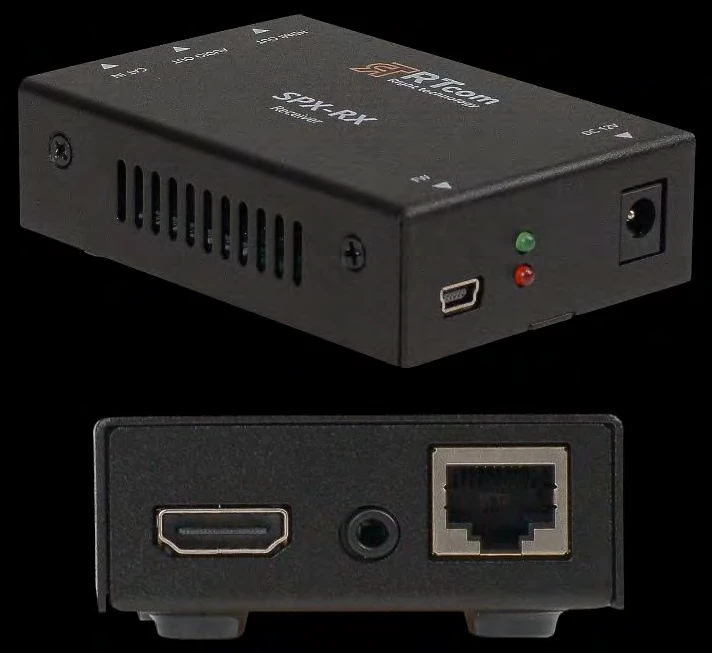
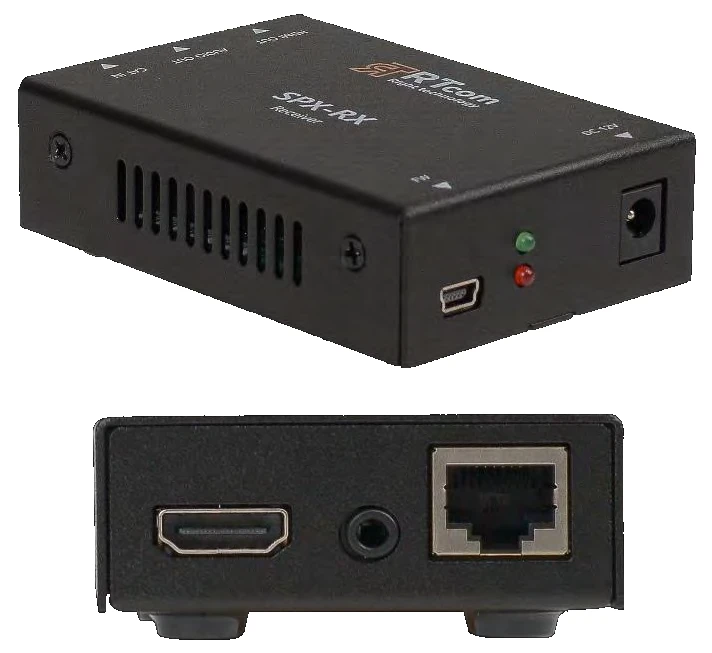
0.92.0: SPX 사진 검은 배경 제거, 전송기 ft 표기 일괄 삭제

diff --git a/index.html b/index.html
@@ -1,7 +1,7 @@
 <!doctype html>
 <html lang="ko"><head><meta charset="utf-8"><meta name="viewport" content="width=device-width,initial-scale=1"><title>RTCOM 매트릭스 구성기</title><meta name="description" content="RTCOM XDM, SPX, VDM 매트릭스 카드 슬롯 구성기와 알티컴 공개 제품정보"></head><body><div id="rtcom-design" aria-label="RTCOM 매트릭스 구성기">
   <link rel="stylesheet" href="src/styles.css">
-  <header class="rt-top"><a class="rt-brand-lockup" href="./"><span class="rt-brand-mark" aria-hidden="true">▦</span><span><span class="rt-brand">RT<span>COM</span> Matrix Configurator</span><span class="rt-brand-sub">XDM · SPX · VDM CARD SLOT DESIGN</span></span></a><nav class="rt-view-tabs" aria-label="화면 전환"><a data-view-tab="configurator" href="#matrix-configurator" aria-current="page">매트릭스 구성기</a><a data-view-tab="products" href="#products">알티컴 제품정보</a></nav><div class="rt-top-links"><a class="rt-portal-link" href="https://seoulav.github.io/AV-Portal/" target="_blank" rel="noopener">AV Portal에서 제품 찾기 <span aria-hidden="true">↗</span><span class="rt-visually-hidden">(새 창)</span></a><div class="rt-meta"><b>AV 시스템 설계 도구</b><br>CATALOG BASED · 0.91</div></div></header>
+  <header class="rt-top"><a class="rt-brand-lockup" href="./"><span class="rt-brand-mark" aria-hidden="true">▦</span><span><span class="rt-brand">RT<span>COM</span> Matrix Configurator</span><span class="rt-brand-sub">XDM · SPX · VDM CARD SLOT DESIGN</span></span></a><nav class="rt-view-tabs" aria-label="화면 전환"><a data-view-tab="configurator" href="#matrix-configurator" aria-current="page">매트릭스 구성기</a><a data-view-tab="products" href="#products">알티컴 제품정보</a></nav><div class="rt-top-links"><a class="rt-portal-link" href="https://seoulav.github.io/AV-Portal/" target="_blank" rel="noopener">AV Portal에서 제품 찾기 <span aria-hidden="true">↗</span><span class="rt-visually-hidden">(새 창)</span></a><div class="rt-meta"><b>AV 시스템 설계 도구</b><br>CATALOG BASED · 0.92</div></div></header>
   <section class="rt-configurator-view" aria-label="매트릭스 구성기">
     <div id="matrix-configurator" class="rt-configurator-anchor"><h1 class="rt-visually-hidden" tabindex="-1">매트릭스 구성기 — 프레임을 선택하고 실제 슬롯 위치에 입력·출력 카드를 장착해 구성합니다.</h1></div>
     <div class="rt-workspace"><div class="rt-tools"><button class="rt-button" data-tool="undo" disabled>↶ 실행 취소</button><button class="rt-button" data-tool="redo" disabled>↷ 다시 실행</button><button class="rt-button" data-tool="backup">JSON 백업</button><button class="rt-button" data-tool="import">불러오기</button><button class="rt-button" data-tool="reset">새 구성</button></div><p id="save-status" role="status" aria-live="polite">이 브라우저에 자동 저장됩니다.</p><input id="import-file" type="file" accept=".json,application/json" hidden></div><nav class="rt-nav" aria-label="구성 단계"></nav>

diff --git a/CLAUDE.md b/CLAUDE.md
@@ -50,7 +50,7 @@
 
 - 현재 화면 버전은 `index.html`의 우측 상단 표기와 `README.md`에 함께 기록합니다.
 - 원본 `main`에 기능 묶음을 병합할 때 마이너 버전을 올리고, 같은 커밋에서 `CHANGELOG.md`를 갱신합니다.
-- 구성기 단일 화면 전환은 `0.7.0`, Analog Way 방식 화면 개편은 `0.8.0`, 전송기 자동 연동은 `0.9.0`, HDMI 카드 PSE 쌍 연장은 `0.10.0`, SPX 매뉴얼 사진 슬롯은 `0.11.0`, VDM-256X 추가는 `0.12.0`, VDM 매뉴얼 후면 도면 슬롯은 `0.13.0`, 휴대폰 슬롯 겹침·뒤로가기 수정은 `0.14.0`, VDM 전면 도면은 `0.15.0`, 사진 슬롯 판넬 잘림 수정은 `0.16.0`, 장착 슬롯 번호표 숨김·구성 요약 카드 확대는 `0.17.0`, XDM 판넬 손나사 잘림 수정·VDM 전송기 연동·로고 홈 이동 확인은 `0.18.0`, 알티컴 공개 제품정보(29종) 재게시는 `0.19.0`, 제품정보 상세 표기를 에이앤미디어(antez.co.kr) 방식으로 정리한 것은 `0.20.0`, 데이터 기반 연결 다이어그램 추가는 `0.21.0`, 제품 사양 표를 구분·사양 2단으로 정리한 것은 `0.22.0`, 휴대폰 가로 스크롤(긴 출처 경로) 수정은 `0.23.0`, HD-14U·HD-18U 모델명 정정과 VDM CT102-U·FT102-U 계열 제외는 `0.24.0`, 제조사 카탈로그 원본 연결 다이어그램 적용은 `0.25.0`, 제품 사양 표 디자인(분류 색 점) 다듬기는 `0.26.0`, 새 카탈로그로 나머지 25종 재검증·XDM-CTR100 조합 다이어그램은 `0.27.0`, 연결 다이어그램 가로 스크롤 안내(그러데이션 표시)와 XDM-CTR100 케이블별 최대 전송거리(CI6522 80m) 추가는 `0.28.0`, VDM HOS4-U·HOS4S-UW 카드 설명을 스위칭 방식(일반·심리스)으로 정리하고 XDM-288을 구성기에서 삭제한 것은 `0.29.0`, XDM-CTR100 연결 다이어그램 조합 1을 매트릭스 카드 직결 배선으로 바로잡고 제조사 원본 다이어그램에 출처 캡션·표기 다름 경고를 추가하고 6개 제품과 SPX 다이어그램을 다시 잘라낸 것은 `0.30.0`, VDM 전송기 4종(CT101-U/CR101-U·CT103-U-H/CR103-U·FT101-U/FR101-U·FT103-U-H/FR103-U)에 RS-232 단자 행을 추가하고 이 4종과 CT104-U/CR104-U를 46쪽판과 재대조하고 27종 전체의 카탈로그 쪽 표기를 46쪽판 기준으로 통일한 것은 `0.31.0`, `docs/audit/PRODUCT_DIAGRAM_REVIEW_2026-09-27.md` §6 판단표대로 13개 제품의 검토 필요 항목을 정리해 REVIEW REQUIRED 배지를 없앤 것은 `0.32.0`, 제품정보 화면을 사용자 LED 구성기 계승 글래스 디자인으로 개편한 것(`docs/handoff/PRODUCT_GLASS_REDESIGN_SPEC.md` 6-A: 기반·HD-210U·XDM·VDM·SPX)은 `0.33.0`, 나머지 23종(분배기·일체형·전송기·케이블)에 lead·subtitle·portMap을 채우고 분배기·일체형 신호 흐름을 승인 시안 방식으로 바꾸고 QMS 화면 구성 모드(videoModes)를 추가한 것(6-B)은 `0.34.0`, HD-13U 상세에 전면 EDID 로터리 스위치 위치 표시와 EDID 코드표(edidSwitch, 사용자 제공 매뉴얼 근거)를 추가한 것은 `0.35.0`, HD-104U·HD-108U 모델명 표기를 0.24.0 정정 이전으로 되돌리고(사용자 확인 2026-09-27: 카탈로그 표기는 HD-104U·HD-108U이며 실크만 14U·18U로 변경 예정) HD-210U 전면 설정 스위치(딥 스위치·EDID 로터리) 추가와 신호 흐름 매트릭스 판정 복원을 함께 묶은 것은 `0.36.0`, 매트릭스 구성기 화면을 Analog Way 구조 + LED 글래스 스킨으로 개편하고 블랭크 커버(`placements`의 예약값 `"BLANK"`)로 슬롯 구성을 완성하는 기능을 추가한 것(`docs/handoff/CONFIGURATOR_AW_GLASS_SPEC.md`, 사용자 결정 2026-09-27)은 `0.37.0`, 0.37.0에서 시안과 다르게 남겨 둔 04 전송기 화면을 사용자 검토 후 좌우 분할 구조(01·02와 같은 틀)로 다시 지은 것(`docs/implementation/CONFIGURATOR_AW_GLASS.md` "04 전송기(편차 — 0.38.0에서 해소)")은 `0.38.0`, 제품 상세 "01 한눈에 보기" 위에 큰 사진 띠와 누르면 확대되는 돋보기(라이트박스)를 추가하고 화면에 보이는 제품 사양·주요 기능의 "up to" 표기를 "최대"로 통일하고 제품정보 "확인 사항" 118건을 2건으로 정리(HD-210U 크기 355mm 정정, `docs/audit/PRODUCT_ISSUES_ARCHIVE_2026-09-27.md`)한 것은 `0.39.0`, HD-13U "05 주요 기능"에 오디오 병합(믹스)·추출(디먹스) 동시 사용 안내(매뉴얼 7쪽 근거)를 추가한 것은 `0.40.0`, 분배기(HD-13U·HD-104U·HD-108U·HD-210U) EDID 로터리 코드표에서 자주 쓰는 1·7번을 강조하고 "02 신호 흐름"에 오디오 병합·추출(AUDIO OUT·"추출" 표시)을 추가한 것은 `0.41.0`, 사진 없이 입출력 표 카드로만 보이던 7종(HD-D102U·XDM-CTR100·전송기 5종)의 단자 지도를 HD-13U처럼 실제 제품 사진 기준으로 바꾸고 `portMap`이 송신기·수신기 사진 여러 장을 받게 한 것은 `0.42.0`, HDS-21U·HDS-42MU에 EDID 로터리(edidSwitch)를 추가하고 오디오 병합 설명을 "HDMI OUTPUT에 실리는 오디오" 기준으로 정정하고 분배기·선택기 필터를 HDMI 출력 개수 순으로 정렬하고 XDM-CTR100 "02 신호 흐름" 케이블 최대 전송거리 표기를 다이어그램 하단 한쪽으로 모은 것은 `0.43.0`, 분배기·선택기 필터 정렬을 분배기(Splitter)가 먼저 나오고 셀렉터(Switcher)가 나중에 나오도록(같은 종류 안에서는 HDMI 출력 개수 순) 바꾼 것은 `0.44.0`, 사용자 제공 매뉴얼 3권으로 벽부형 XDM-CT103·CT103-U-H/CR103-U·FT103-U-H/FR103-U의 단자 지도·사양·EDID 표를 보완하고 단자 지도에 세로 괄호·표시 폭·안내 줄을 추가한 것은 `0.45.0`, XDM-CTR100 PSE 제품 안내서와 XDM-CTR100 매뉴얼 Ver.1.4로 CTR100 단자 역할(HDMI IN·OUT, 5핀 오디오 출력, 상태 LED)·딥 스위치 설정·PSE 크기·전원을 보완한 것은 `0.46.0`, 옛 PR #22에만 있던 사용자 결정(XDM-CTR100과 XDM-CTR100 PSE를 별도 제품으로 분리해 28종, QMS-88UX 쿼드 뷰 출력 9·10번 사용법, 모델명 줄바꿈 방지)을 현재 main 기준으로 다시 옮기고 HD-13U 오디오 병합·추출을 선택 방식으로 정정해 07 오디오 설정 카드를 추가하고 모든 제품의 단자 지도 번호를 HDMI 입력 → 출력 → 오디오 → … → 전원(마지막) 순으로 통일한 것은 `0.47.0`, QMS-88UX 출력 9·10번 멀티뷰의 12가지 레이아웃·입력 그룹·출력 옵션을 사용자 제공 매뉴얼 20~23쪽 근거로 "주요 기능"에 적은 것은 `0.48.0`, HDS-21U·HDS-42MU 오디오 병합·추출을 딥 스위치 1번 선택 방식으로 정정하고 07 오디오 설정 카드를 추가하고 사용자 제공 매뉴얼 Ver.1.0으로 Priority·분배 기능 딥 스위치를 보완하고 제품 사진 팝업을 사용자 LED 계산기 "05 프로세서" 방식(사진 탭·원형 돋보기)으로 바꾼 것은 `0.49.0`, QMS-88UX "02 신호 흐름"에서 멀티뷰 출력 9·10번을 매트릭스 출력과 분리된 별도 갈래(패널·캡션)로 다시 그리고 "05 주요 기능" 멀티뷰 항목을 요약하고 오디오 출력 2개(QD1·QD2)가 선택 가능한 출력임을 반영한 것은 `0.50.0`, QMS-88UX "04 제품 사양"의 조건 칸(부설)을 모두 비우고 LAN(Telnet & Web Browser) 표기를 사양·기능·개요·단자 지도에서 모두 뺀 것은 `0.51.0`, HDS-42MU 크기를 사용자 결정에 따라 매뉴얼 값 232×65×30mm로 바꾸고 제품 상세의 "자료 출처·검토 기록"을 "제조사 자료"로 이름을 바꿔 화면의 출처 표시를 뺀 것은 `0.52.0`, QMS-88UX 오디오 QD1·QD2 설명 정리·"02 신호 흐름" 오디오 추출 점선과 멀티뷰 8입력분할 표현 정리·입출력 단자 표 정렬 통일(TX→구분 없음→RX, 영상→오디오→전송→제어, 입력→출력→양방향)·"제조사 자료"에서 표기 다름·참고 사항도 추가로 뺀 것과 조건 칸의 출처 문구를 지우고 "05 주요 기능"을 한 줄 요약으로 줄인 것(상세는 06·07 카드·사양·단자 지도로 이동)은 `0.53.0`, XDM-CTR100·CTR100 PSE "04 제품 사양"의 딥 스위치 행을 다시 삭제(딥 스위치는 05 주요 기능에서만 안내)하고 전 제품 "05 주요 기능"을 추가로 압축하고 매트릭스 COS/CIS/FIS/FOS 카드와 짝인 전송기 3종(XDM-CTR100·CTR100 PSE·FT101/FR101)에 RS-232+ 패스스루(AMX 등 통합 제어 신호를 매트릭스·전송기 너머로 전달) 안내를 추가하고 "02 신호 흐름"의 케이블 최대 전송거리 표기를 범례 "출력" 항목 오른쪽으로 옮긴 것은 `0.54.0`, 구성기 확인 창을 사이트 글래스 스타일 대화상자로 바꾸고 카드 팝업에 수량 채우기와 같은 방향 슬롯 이동(끌어 옮기기·팝업 이동)을 추가하고 XDM 세로 슬롯 카드를 180도 돌리고 2U 이상만 정면·후면 버튼(그보다 작으면 정면 사진과 포트 연결면을 함께 표시)으로 하고 구성기 작업 단계 표기를 한글로 바꾸고 Delete 키 카드 빼기와 XDM RS-232+(CIS·COS·FIS·FOS 카드와 짝 전송기) 표기를 더한 것은 `0.55.0`, 전 제품 "05 주요 기능" 카탈로그 어투 통일("~ 지원")·"01 한눈에 보기" 위 사진 띠 삭제·"02 신호 흐름"과 "03 단자 지도" 순서 교체 및 영문 표기(Signal Flow·Port Map)·화면 구성 모드 등 06 카드를 05 옆으로 배치·QMS-88UX 06 화면 구성 모드 레이아웃 12종 클릭 미리보기 추가·HDS-21U·HDS-42MU 단자 지도를 정면·후면 선택 버튼 없이 위아래 합성 사진 한 장(번호 1~7, EDID 로터리 6번·전원 7번)으로 바꾼 것은 `0.56.0`, 05 옆으로 옮긴 06 카드가 휴대폰에서 01보다 먼저 뜨던 순서 버그를 고치고(rt-pg-col-mobile-6 클래스 추가) 15개 제품 "05 주요 기능"의 "~할 수 있다." 표현 24곳을 명사형으로 정리한 것은 `0.57.0`, HDS-21U·HDS-42MU 단자 지도에 MODE 딥 스위치 번호(7번)를 추가하고 07 오디오 설정 카드를 딥 스위치 그림(번호별 OFF·ON) 카드인 07 딥 스위치 설정으로 바꾸고(1번 오디오 병합·추출, 2번 Priority, 42MU만 3번 분배) 04 제품 사양의 딥 스위치 행과 05 주요 기능의 긴 설명을 이 카드로 옮기고 매트릭스 제품(QMS-44UX·QMS-88UX·HDS-42MU) "03 Signal Flow"를 입력이 한 점으로 모이는 모양 대신 크로스포인트(출력마다 입력 선택 예시)로 다시 그리고 HDS-42MU 정면 사진의 잘못 인쇄된 실크(MODE·EDID)를 사진 안에서 서로 바꾼 것은 `0.58.0`, EDID 로터리 태그 잘림·06 EDID 카드 배치·긴 코드표 좌우 분할을 고치고 EDID 설정 카드에 기본값·자주 쓰는 코드를 파란 16단 로터리 그림(화살표가 코드를 가리킴)으로 보여주고 HDS-21U·HDS-42MU(3·9번)·FT103-U-H/FR103-U(3·6번)에 자주 쓰는 코드 강조를 더하고 EDID 코드표 세로 크기를 줄인 것은 `0.59.0`, 04 제품 사양 표 줄 간격을 약 15% 줄이고 03 Signal Flow에서 AUDIO OUT "추출" 표시가 잘리던 그림 너비 계산을 고친 것은 `0.60.0`, HD-13U 07 오디오 설정을 06 EDID 다음 전체 폭으로 옮겨 잘림·번호 뒤집힘을 고치고 EDID 대표 설정과 같은 칸 4개(MODE 로터리 0번 → SET 누름 → OUT 1 LED 깜빡임·깜빡이지 않음)를 넣고 HD-210U에 매뉴얼 Ver.1.2 근거 07 딥 스위치 설정 카드(1번 오디오 병합, 2번 DDC)를 추가한 것은 `0.61.0`, 딥 스위치 카드가 있는 HD-210U·HDS-21U·HDS-42MU의 05 주요 기능에서 스위치 번호 참조를 지우고 HD-210U(5줄)·HD-13U(3줄) 05 주요 기능을 기능 이름만 남겨 정리하고 HDS-21U·HDS-42MU 딥 스위치 칸을 ON → OFF 순서로 바꾼 것은 `0.62.0`, QMS-44UX·QMS-88UX "06 화면 구성 모드" 카드가 05 옆 좁은 칸에 들어가면서 모드 카드 설명·레이아웃 칩이 카드 밖으로 넘치던 문제를 edidSwitch와 같은 기준(항상 전체 폭 아래)으로 고친 것은 `0.63.0`, SPX-TX/RX 전송기를 29번째 제품으로 추가(매뉴얼 Ver.2.0: 사양·단자 지도·딥 스위치 조합)하고 XDM-FT101/FR101에 매뉴얼 Ver.1.3 근거 EDID·오디오 로터리 카드(전체 8칸 그림)를 넣고 SPX 안내·범례의 HDBaseT 표기를 CATx로 바로잡고 OBUX-1C에 매뉴얼 Ver.2.2 근거 Tx Mode 딥 스위치 카드(1번 오디오, 2·3·4번 EDID 조합)를 넣고 전 제품 05 주요 기능의 "~한다/~다." 문장을 "~ 지원"·명사형으로 통일한 것은 `0.64.0`, OBHD-2C에 매뉴얼 KV01 근거 06 EDID 설정(MODE 로터리 0~D 전체 14칸 그림·코드표)을 추가하고 XDM-CT103/CR103 04 제품 사양의 전원(어댑터) 중복 행(CT103·CR103 각각 있던 동일 값)을 공통 행 하나로 합친 것은 `0.65.0`, XDM-CTR100·XDM-CTR100 PSE에 매뉴얼 Ver.1.4 근거 06 딥 스위치 설정(1·2번 TX/RX 모드 조합, 3번 전송 거리)을 추가하고 두 제품이 별도 페이지로 나뉜 뒤에도 남아 있던 04 제품 사양의 "공통"·자기 모델명 반복 표기를 정리하고 04 사양 "지원 케이블"을 "권장 케이블"로 바꾸고 분배기 4종(HD-13U·HD-104U·HD-108U·HD-210U) 단자 지도를 앞면·뒷면 합성 사진 한 장으로 바꿔 정면 로터리(·SET·MODE)에도 번호를 붙인 것은 `0.66.0`, QMS-88UX 06 화면 구성 모드 QUAD 레이아웃 목록에 매뉴얼 22~23쪽 Output Option 2·3 근거로 "8분할(비율무시)"을 13번째 항목으로 추가하고 분배기 4종(HD-13U·HD-104U·HD-108U·HD-210U) 05 주요 기능에 다단 증폭(캐스케이드 연결) 최대 3단 지원을 추가한 것은 `0.67.0`, XDM-FT101/FR101 단자 지도에 정면 MODE 로터리·S/P 번호를 추가하고 HD-D102U 05 주요 기능을 명사형으로 전면 재작성하고 HDS-21U·HDS-42MU "Audio Extraction"과 HD-210U EDID "Nothing" 표기를 통일하고 HDS-21U 딥 스위치 3번(분배)이 매뉴얼에 없는 기능이었음을 사용자 제공 매뉴얼로 확인해 삭제한 것은 `0.68.0`, HDS-21U·HDS-42MU 06 EDID 설정 안내 문장에서 "10번=A, 11번=B"처럼 10진수를 다시 설명하던 괄호를 완전히 지운 것은 `0.69.0`, 구성기 "섀시"를 "프레임"으로 통일하고 카드 팝업에 수량·순서대로 장착 버튼을 넣고 02 프레임 선택에 "함께 보면 좋은 제품"을 추가하고 빈 슬롯 공패널색을 통일하고 OBHD-2C EDID 로터리 번호를 매뉴얼 Ver.2.1 기준으로 정정하고 HD-D102U "스마트 EDID" 문구를 알기 쉽게 풀어 쓰고 HD-13U·XDM-CTR100 PSE "인증: KC 인증" 행을 삭제하고 HD-D102U 04 사양표를 HD-13U와 같은 구성으로 정리한 것은 `0.70.0`, OBHD-2C 04 제품 사양의 크기·무게·HDMI 규격을 사용자 결정에 따라 매뉴얼 Ver.2.1 값(128×89×25mm·0.36kg·HDMI 1.3)으로 바꾼 것은 `0.71.0`, OBHD-2C·OBUX-1C 04 제품 사양의 입력단자·출력단자(HDMI(female) 등 표기) 행을 삭제하고 전 제품(16종)의 mm/kg 옆 인치·lbs 병기를 지운 것은 `0.72.0`, XDM-PSU 전원 장치를 반영해 BOM의 임시 "전원 공급 장비"를 XDM-PSU(16칸당 1대)·XDM-POH(CTR100 Tx 1대당 1개)·XDM-PHX(COS100 1장당 1개)로 나누고 XDM-PSU를 30번째 제품으로 추가하고, HDS-21U·OBUX-1C 송신기·수신기 고해상도 실물 사진을 반영하고, CT103-U-H/CR103-U 04 제품 사양을 요약 형태로 정리한 것은 `0.73.0`, QMS-44UX 전면·후면 사진을 사용자가 직접 촬영한 고화질 사진으로 바꾸고 03 단자 지도 좌표를 재보정하고 새 사진에서 확인된 DOWNLOAD(Mini-USB) 포트를 추가한 것은 `0.74.0`, HD-108U 전면·후면 사진을 제조사에서 입수한 고화질 사진으로 바꾸고 03 단자 지도와 06 EDID 설정 로터리 스위치 좌표를 재보정한 것은 `0.75.0`, HDS-42MU 전면·후면 사진을 고화질로 바꾸고 단자 지도·EDID 좌표를 재보정한 것은 `0.76.0`, HD-13U·SPX-M810 전면·후면 사진을 고해상도로 바꾸고 HD-13U 단자 지도·EDID 좌표와 SPX-M810 구성기 카드 슬롯 좌표를 재측정한 것은 `0.77.0`, 사용자가 제공한 HD-104U 고해상도 전면·후면 사진(긴 변 약 2000px)으로 기존 저해상도 이미지를 교체하고 단자 지도·EDID 로터리 스위치 좌표를 새 사진 기준으로 다시 측정한 것은 `0.78.0`, 제품 상세에 등록된 제조사 카탈로그·매뉴얼 PDF만 "제품 목록" 옆 버튼(새 탭 보기·내려받기)으로 보여 주는 구조를 추가한 것은 `0.79.0`, 매트릭스 카드 상세 정보 버튼과 XDM·SPX·VDM 카드 26종 사양을 등록한 것은 `0.80.0`, 로컬 작업 환경(`DEVICE_WORKFLOW.md`, `.gitattributes`, `.claude/settings.json`)과 `input_doc` 자료 자동 분류(`.claude/skills/input-doc`, `scripts/input_doc.py`)를 추가한 것은 `0.81.0`, 제조사 자료 입출력 단자 표에서 방향("입력"·"출력"·"입출력")·수량(숫자) 칸이 좁은 화면에서 줄바꿈되던 문제를 30개 제품 전수 조사로 찾아 고친 것은 `0.82.0`, 제목에 송신기·수신기가 들어간 제품 10종의 라벨을 색으로 구분한 것은 `0.83.0`, input_doc 첫 정리(매뉴얼 20권·사양서 1장)로 VDM HOS4-U 카드 사양을 등록하고 CIS4-U·COS4-U·QOS4S-U를 매뉴얼 KV07 값으로 보완하고 input_doc 반영 장부(`docs/evidence/input-doc-ledger.json`)와 파일별 반영 표시(`input_doc/STATUS.md`)를 추가하고 검증된 PR의 병합·배포를 Claude가 이어서 하도록 규칙을 바꾼 것은 `0.84.0`, 카탈로그·매뉴얼 충돌 정리(`docs/audit/CATALOG_MANUAL_CONFLICTS_2026-09-28.md`) 결정대로 VDM -U 카드에 매뉴얼 해상도 행·SOS4 오디오 포트를 더하고 QMS-88UX 멀티뷰에 8분할(16:9 비율)을 추가한 것은 `0.85.0`, 카탈로그·매뉴얼 충돌 항목을 사용자 결정("새로준 자료 기준으로")에 따라 매뉴얼 값으로 통일한 것(HD-104U 전원 1A, XDM 전송기 3840x2160, VDM 광 카드 10km·-U 카드 4096×2160·HOS4S-UW 1920×1080)은 `0.86.0`, RT컴 제공 고해상도 실물 사진으로 XDM-CTR100·XDM-FT101·XDM-FR101·XDM-CT103 제품 사진·목록 카드·구성기 04 전송기 썸네일을 교체하고 CTR100·FT101·CT103 단자 지도를 새 사진으로 다시 합성하고 XDM-FR101 수신기 뒷면 단자 지도를 추가한 것은 `0.87.0`, 사용자 결정("1번")으로 input_doc 매뉴얼 17개를 공개 폴더에 올려 16개 제품 상세에 매뉴얼 PDF 버튼을 켠 것은 `0.88.0`, 사용자 확인("ctr100과 pse는 단자는 동일해")에 따라 XDM-CTR100·XDM-CTR100 PSE 단자 지도를 같은 합성 사진(앞면 PSE 제품 안내서 사진 + 뒷면 RT컴 CTR100 사진)으로 바꾼 것은 `0.89.0`, QMS-88UX 06 화면 구성 모드의 DUAL 카드("듀얼 모드" 한 마디뿐)를 매뉴얼 KV.04 20~21쪽 근거로 출력 9·10번 멀티뷰 설정의 2분할(PBP)·PIP 레이아웃 3종으로 채운 것은 `0.90.0`, XDM-CTR100 PSE 정면 사진을 사용자가 재확인("1번 맞아"·"적용시켜줘")한 원본 PNG에서 정확한 픽셀 경계로 다시 잘라 646×396으로 다시 저장한 것은 `0.91.0`으로 기록했습니다. 다음 기능 묶음은 `0.92.0`을 목표로 하며, 실제 병합 전에는 검증된 canonical main commit을 확인합니다.
+- 구성기 단일 화면 전환은 `0.7.0`, Analog Way 방식 화면 개편은 `0.8.0`, 전송기 자동 연동은 `0.9.0`, HDMI 카드 PSE 쌍 연장은 `0.10.0`, SPX 매뉴얼 사진 슬롯은 `0.11.0`, VDM-256X 추가는 `0.12.0`, VDM 매뉴얼 후면 도면 슬롯은 `0.13.0`, 휴대폰 슬롯 겹침·뒤로가기 수정은 `0.14.0`, VDM 전면 도면은 `0.15.0`, 사진 슬롯 판넬 잘림 수정은 `0.16.0`, 장착 슬롯 번호표 숨김·구성 요약 카드 확대는 `0.17.0`, XDM 판넬 손나사 잘림 수정·VDM 전송기 연동·로고 홈 이동 확인은 `0.18.0`, 알티컴 공개 제품정보(29종) 재게시는 `0.19.0`, 제품정보 상세 표기를 에이앤미디어(antez.co.kr) 방식으로 정리한 것은 `0.20.0`, 데이터 기반 연결 다이어그램 추가는 `0.21.0`, 제품 사양 표를 구분·사양 2단으로 정리한 것은 `0.22.0`, 휴대폰 가로 스크롤(긴 출처 경로) 수정은 `0.23.0`, HD-14U·HD-18U 모델명 정정과 VDM CT102-U·FT102-U 계열 제외는 `0.24.0`, 제조사 카탈로그 원본 연결 다이어그램 적용은 `0.25.0`, 제품 사양 표 디자인(분류 색 점) 다듬기는 `0.26.0`, 새 카탈로그로 나머지 25종 재검증·XDM-CTR100 조합 다이어그램은 `0.27.0`, 연결 다이어그램 가로 스크롤 안내(그러데이션 표시)와 XDM-CTR100 케이블별 최대 전송거리(CI6522 80m) 추가는 `0.28.0`, VDM HOS4-U·HOS4S-UW 카드 설명을 스위칭 방식(일반·심리스)으로 정리하고 XDM-288을 구성기에서 삭제한 것은 `0.29.0`, XDM-CTR100 연결 다이어그램 조합 1을 매트릭스 카드 직결 배선으로 바로잡고 제조사 원본 다이어그램에 출처 캡션·표기 다름 경고를 추가하고 6개 제품과 SPX 다이어그램을 다시 잘라낸 것은 `0.30.0`, VDM 전송기 4종(CT101-U/CR101-U·CT103-U-H/CR103-U·FT101-U/FR101-U·FT103-U-H/FR103-U)에 RS-232 단자 행을 추가하고 이 4종과 CT104-U/CR104-U를 46쪽판과 재대조하고 27종 전체의 카탈로그 쪽 표기를 46쪽판 기준으로 통일한 것은 `0.31.0`, `docs/audit/PRODUCT_DIAGRAM_REVIEW_2026-09-27.md` §6 판단표대로 13개 제품의 검토 필요 항목을 정리해 REVIEW REQUIRED 배지를 없앤 것은 `0.32.0`, 제품정보 화면을 사용자 LED 구성기 계승 글래스 디자인으로 개편한 것(`docs/handoff/PRODUCT_GLASS_REDESIGN_SPEC.md` 6-A: 기반·HD-210U·XDM·VDM·SPX)은 `0.33.0`, 나머지 23종(분배기·일체형·전송기·케이블)에 lead·subtitle·portMap을 채우고 분배기·일체형 신호 흐름을 승인 시안 방식으로 바꾸고 QMS 화면 구성 모드(videoModes)를 추가한 것(6-B)은 `0.34.0`, HD-13U 상세에 전면 EDID 로터리 스위치 위치 표시와 EDID 코드표(edidSwitch, 사용자 제공 매뉴얼 근거)를 추가한 것은 `0.35.0`, HD-104U·HD-108U 모델명 표기를 0.24.0 정정 이전으로 되돌리고(사용자 확인 2026-09-27: 카탈로그 표기는 HD-104U·HD-108U이며 실크만 14U·18U로 변경 예정) HD-210U 전면 설정 스위치(딥 스위치·EDID 로터리) 추가와 신호 흐름 매트릭스 판정 복원을 함께 묶은 것은 `0.36.0`, 매트릭스 구성기 화면을 Analog Way 구조 + LED 글래스 스킨으로 개편하고 블랭크 커버(`placements`의 예약값 `"BLANK"`)로 슬롯 구성을 완성하는 기능을 추가한 것(`docs/handoff/CONFIGURATOR_AW_GLASS_SPEC.md`, 사용자 결정 2026-09-27)은 `0.37.0`, 0.37.0에서 시안과 다르게 남겨 둔 04 전송기 화면을 사용자 검토 후 좌우 분할 구조(01·02와 같은 틀)로 다시 지은 것(`docs/implementation/CONFIGURATOR_AW_GLASS.md` "04 전송기(편차 — 0.38.0에서 해소)")은 `0.38.0`, 제품 상세 "01 한눈에 보기" 위에 큰 사진 띠와 누르면 확대되는 돋보기(라이트박스)를 추가하고 화면에 보이는 제품 사양·주요 기능의 "up to" 표기를 "최대"로 통일하고 제품정보 "확인 사항" 118건을 2건으로 정리(HD-210U 크기 355mm 정정, `docs/audit/PRODUCT_ISSUES_ARCHIVE_2026-09-27.md`)한 것은 `0.39.0`, HD-13U "05 주요 기능"에 오디오 병합(믹스)·추출(디먹스) 동시 사용 안내(매뉴얼 7쪽 근거)를 추가한 것은 `0.40.0`, 분배기(HD-13U·HD-104U·HD-108U·HD-210U) EDID 로터리 코드표에서 자주 쓰는 1·7번을 강조하고 "02 신호 흐름"에 오디오 병합·추출(AUDIO OUT·"추출" 표시)을 추가한 것은 `0.41.0`, 사진 없이 입출력 표 카드로만 보이던 7종(HD-D102U·XDM-CTR100·전송기 5종)의 단자 지도를 HD-13U처럼 실제 제품 사진 기준으로 바꾸고 `portMap`이 송신기·수신기 사진 여러 장을 받게 한 것은 `0.42.0`, HDS-21U·HDS-42MU에 EDID 로터리(edidSwitch)를 추가하고 오디오 병합 설명을 "HDMI OUTPUT에 실리는 오디오" 기준으로 정정하고 분배기·선택기 필터를 HDMI 출력 개수 순으로 정렬하고 XDM-CTR100 "02 신호 흐름" 케이블 최대 전송거리 표기를 다이어그램 하단 한쪽으로 모은 것은 `0.43.0`, 분배기·선택기 필터 정렬을 분배기(Splitter)가 먼저 나오고 셀렉터(Switcher)가 나중에 나오도록(같은 종류 안에서는 HDMI 출력 개수 순) 바꾼 것은 `0.44.0`, 사용자 제공 매뉴얼 3권으로 벽부형 XDM-CT103·CT103-U-H/CR103-U·FT103-U-H/FR103-U의 단자 지도·사양·EDID 표를 보완하고 단자 지도에 세로 괄호·표시 폭·안내 줄을 추가한 것은 `0.45.0`, XDM-CTR100 PSE 제품 안내서와 XDM-CTR100 매뉴얼 Ver.1.4로 CTR100 단자 역할(HDMI IN·OUT, 5핀 오디오 출력, 상태 LED)·딥 스위치 설정·PSE 크기·전원을 보완한 것은 `0.46.0`, 옛 PR #22에만 있던 사용자 결정(XDM-CTR100과 XDM-CTR100 PSE를 별도 제품으로 분리해 28종, QMS-88UX 쿼드 뷰 출력 9·10번 사용법, 모델명 줄바꿈 방지)을 현재 main 기준으로 다시 옮기고 HD-13U 오디오 병합·추출을 선택 방식으로 정정해 07 오디오 설정 카드를 추가하고 모든 제품의 단자 지도 번호를 HDMI 입력 → 출력 → 오디오 → … → 전원(마지막) 순으로 통일한 것은 `0.47.0`, QMS-88UX 출력 9·10번 멀티뷰의 12가지 레이아웃·입력 그룹·출력 옵션을 사용자 제공 매뉴얼 20~23쪽 근거로 "주요 기능"에 적은 것은 `0.48.0`, HDS-21U·HDS-42MU 오디오 병합·추출을 딥 스위치 1번 선택 방식으로 정정하고 07 오디오 설정 카드를 추가하고 사용자 제공 매뉴얼 Ver.1.0으로 Priority·분배 기능 딥 스위치를 보완하고 제품 사진 팝업을 사용자 LED 계산기 "05 프로세서" 방식(사진 탭·원형 돋보기)으로 바꾼 것은 `0.49.0`, QMS-88UX "02 신호 흐름"에서 멀티뷰 출력 9·10번을 매트릭스 출력과 분리된 별도 갈래(패널·캡션)로 다시 그리고 "05 주요 기능" 멀티뷰 항목을 요약하고 오디오 출력 2개(QD1·QD2)가 선택 가능한 출력임을 반영한 것은 `0.50.0`, QMS-88UX "04 제품 사양"의 조건 칸(부설)을 모두 비우고 LAN(Telnet & Web Browser) 표기를 사양·기능·개요·단자 지도에서 모두 뺀 것은 `0.51.0`, HDS-42MU 크기를 사용자 결정에 따라 매뉴얼 값 232×65×30mm로 바꾸고 제품 상세의 "자료 출처·검토 기록"을 "제조사 자료"로 이름을 바꿔 화면의 출처 표시를 뺀 것은 `0.52.0`, QMS-88UX 오디오 QD1·QD2 설명 정리·"02 신호 흐름" 오디오 추출 점선과 멀티뷰 8입력분할 표현 정리·입출력 단자 표 정렬 통일(TX→구분 없음→RX, 영상→오디오→전송→제어, 입력→출력→양방향)·"제조사 자료"에서 표기 다름·참고 사항도 추가로 뺀 것과 조건 칸의 출처 문구를 지우고 "05 주요 기능"을 한 줄 요약으로 줄인 것(상세는 06·07 카드·사양·단자 지도로 이동)은 `0.53.0`, XDM-CTR100·CTR100 PSE "04 제품 사양"의 딥 스위치 행을 다시 삭제(딥 스위치는 05 주요 기능에서만 안내)하고 전 제품 "05 주요 기능"을 추가로 압축하고 매트릭스 COS/CIS/FIS/FOS 카드와 짝인 전송기 3종(XDM-CTR100·CTR100 PSE·FT101/FR101)에 RS-232+ 패스스루(AMX 등 통합 제어 신호를 매트릭스·전송기 너머로 전달) 안내를 추가하고 "02 신호 흐름"의 케이블 최대 전송거리 표기를 범례 "출력" 항목 오른쪽으로 옮긴 것은 `0.54.0`, 구성기 확인 창을 사이트 글래스 스타일 대화상자로 바꾸고 카드 팝업에 수량 채우기와 같은 방향 슬롯 이동(끌어 옮기기·팝업 이동)을 추가하고 XDM 세로 슬롯 카드를 180도 돌리고 2U 이상만 정면·후면 버튼(그보다 작으면 정면 사진과 포트 연결면을 함께 표시)으로 하고 구성기 작업 단계 표기를 한글로 바꾸고 Delete 키 카드 빼기와 XDM RS-232+(CIS·COS·FIS·FOS 카드와 짝 전송기) 표기를 더한 것은 `0.55.0`, 전 제품 "05 주요 기능" 카탈로그 어투 통일("~ 지원")·"01 한눈에 보기" 위 사진 띠 삭제·"02 신호 흐름"과 "03 단자 지도" 순서 교체 및 영문 표기(Signal Flow·Port Map)·화면 구성 모드 등 06 카드를 05 옆으로 배치·QMS-88UX 06 화면 구성 모드 레이아웃 12종 클릭 미리보기 추가·HDS-21U·HDS-42MU 단자 지도를 정면·후면 선택 버튼 없이 위아래 합성 사진 한 장(번호 1~7, EDID 로터리 6번·전원 7번)으로 바꾼 것은 `0.56.0`, 05 옆으로 옮긴 06 카드가 휴대폰에서 01보다 먼저 뜨던 순서 버그를 고치고(rt-pg-col-mobile-6 클래스 추가) 15개 제품 "05 주요 기능"의 "~할 수 있다." 표현 24곳을 명사형으로 정리한 것은 `0.57.0`, HDS-21U·HDS-42MU 단자 지도에 MODE 딥 스위치 번호(7번)를 추가하고 07 오디오 설정 카드를 딥 스위치 그림(번호별 OFF·ON) 카드인 07 딥 스위치 설정으로 바꾸고(1번 오디오 병합·추출, 2번 Priority, 42MU만 3번 분배) 04 제품 사양의 딥 스위치 행과 05 주요 기능의 긴 설명을 이 카드로 옮기고 매트릭스 제품(QMS-44UX·QMS-88UX·HDS-42MU) "03 Signal Flow"를 입력이 한 점으로 모이는 모양 대신 크로스포인트(출력마다 입력 선택 예시)로 다시 그리고 HDS-42MU 정면 사진의 잘못 인쇄된 실크(MODE·EDID)를 사진 안에서 서로 바꾼 것은 `0.58.0`, EDID 로터리 태그 잘림·06 EDID 카드 배치·긴 코드표 좌우 분할을 고치고 EDID 설정 카드에 기본값·자주 쓰는 코드를 파란 16단 로터리 그림(화살표가 코드를 가리킴)으로 보여주고 HDS-21U·HDS-42MU(3·9번)·FT103-U-H/FR103-U(3·6번)에 자주 쓰는 코드 강조를 더하고 EDID 코드표 세로 크기를 줄인 것은 `0.59.0`, 04 제품 사양 표 줄 간격을 약 15% 줄이고 03 Signal Flow에서 AUDIO OUT "추출" 표시가 잘리던 그림 너비 계산을 고친 것은 `0.60.0`, HD-13U 07 오디오 설정을 06 EDID 다음 전체 폭으로 옮겨 잘림·번호 뒤집힘을 고치고 EDID 대표 설정과 같은 칸 4개(MODE 로터리 0번 → SET 누름 → OUT 1 LED 깜빡임·깜빡이지 않음)를 넣고 HD-210U에 매뉴얼 Ver.1.2 근거 07 딥 스위치 설정 카드(1번 오디오 병합, 2번 DDC)를 추가한 것은 `0.61.0`, 딥 스위치 카드가 있는 HD-210U·HDS-21U·HDS-42MU의 05 주요 기능에서 스위치 번호 참조를 지우고 HD-210U(5줄)·HD-13U(3줄) 05 주요 기능을 기능 이름만 남겨 정리하고 HDS-21U·HDS-42MU 딥 스위치 칸을 ON → OFF 순서로 바꾼 것은 `0.62.0`, QMS-44UX·QMS-88UX "06 화면 구성 모드" 카드가 05 옆 좁은 칸에 들어가면서 모드 카드 설명·레이아웃 칩이 카드 밖으로 넘치던 문제를 edidSwitch와 같은 기준(항상 전체 폭 아래)으로 고친 것은 `0.63.0`, SPX-TX/RX 전송기를 29번째 제품으로 추가(매뉴얼 Ver.2.0: 사양·단자 지도·딥 스위치 조합)하고 XDM-FT101/FR101에 매뉴얼 Ver.1.3 근거 EDID·오디오 로터리 카드(전체 8칸 그림)를 넣고 SPX 안내·범례의 HDBaseT 표기를 CATx로 바로잡고 OBUX-1C에 매뉴얼 Ver.2.2 근거 Tx Mode 딥 스위치 카드(1번 오디오, 2·3·4번 EDID 조합)를 넣고 전 제품 05 주요 기능의 "~한다/~다." 문장을 "~ 지원"·명사형으로 통일한 것은 `0.64.0`, OBHD-2C에 매뉴얼 KV01 근거 06 EDID 설정(MODE 로터리 0~D 전체 14칸 그림·코드표)을 추가하고 XDM-CT103/CR103 04 제품 사양의 전원(어댑터) 중복 행(CT103·CR103 각각 있던 동일 값)을 공통 행 하나로 합친 것은 `0.65.0`, XDM-CTR100·XDM-CTR100 PSE에 매뉴얼 Ver.1.4 근거 06 딥 스위치 설정(1·2번 TX/RX 모드 조합, 3번 전송 거리)을 추가하고 두 제품이 별도 페이지로 나뉜 뒤에도 남아 있던 04 제품 사양의 "공통"·자기 모델명 반복 표기를 정리하고 04 사양 "지원 케이블"을 "권장 케이블"로 바꾸고 분배기 4종(HD-13U·HD-104U·HD-108U·HD-210U) 단자 지도를 앞면·뒷면 합성 사진 한 장으로 바꿔 정면 로터리(·SET·MODE)에도 번호를 붙인 것은 `0.66.0`, QMS-88UX 06 화면 구성 모드 QUAD 레이아웃 목록에 매뉴얼 22~23쪽 Output Option 2·3 근거로 "8분할(비율무시)"을 13번째 항목으로 추가하고 분배기 4종(HD-13U·HD-104U·HD-108U·HD-210U) 05 주요 기능에 다단 증폭(캐스케이드 연결) 최대 3단 지원을 추가한 것은 `0.67.0`, XDM-FT101/FR101 단자 지도에 정면 MODE 로터리·S/P 번호를 추가하고 HD-D102U 05 주요 기능을 명사형으로 전면 재작성하고 HDS-21U·HDS-42MU "Audio Extraction"과 HD-210U EDID "Nothing" 표기를 통일하고 HDS-21U 딥 스위치 3번(분배)이 매뉴얼에 없는 기능이었음을 사용자 제공 매뉴얼로 확인해 삭제한 것은 `0.68.0`, HDS-21U·HDS-42MU 06 EDID 설정 안내 문장에서 "10번=A, 11번=B"처럼 10진수를 다시 설명하던 괄호를 완전히 지운 것은 `0.69.0`, 구성기 "섀시"를 "프레임"으로 통일하고 카드 팝업에 수량·순서대로 장착 버튼을 넣고 02 프레임 선택에 "함께 보면 좋은 제품"을 추가하고 빈 슬롯 공패널색을 통일하고 OBHD-2C EDID 로터리 번호를 매뉴얼 Ver.2.1 기준으로 정정하고 HD-D102U "스마트 EDID" 문구를 알기 쉽게 풀어 쓰고 HD-13U·XDM-CTR100 PSE "인증: KC 인증" 행을 삭제하고 HD-D102U 04 사양표를 HD-13U와 같은 구성으로 정리한 것은 `0.70.0`, OBHD-2C 04 제품 사양의 크기·무게·HDMI 규격을 사용자 결정에 따라 매뉴얼 Ver.2.1 값(128×89×25mm·0.36kg·HDMI 1.3)으로 바꾼 것은 `0.71.0`, OBHD-2C·OBUX-1C 04 제품 사양의 입력단자·출력단자(HDMI(female) 등 표기) 행을 삭제하고 전 제품(16종)의 mm/kg 옆 인치·lbs 병기를 지운 것은 `0.72.0`, XDM-PSU 전원 장치를 반영해 BOM의 임시 "전원 공급 장비"를 XDM-PSU(16칸당 1대)·XDM-POH(CTR100 Tx 1대당 1개)·XDM-PHX(COS100 1장당 1개)로 나누고 XDM-PSU를 30번째 제품으로 추가하고, HDS-21U·OBUX-1C 송신기·수신기 고해상도 실물 사진을 반영하고, CT103-U-H/CR103-U 04 제품 사양을 요약 형태로 정리한 것은 `0.73.0`, QMS-44UX 전면·후면 사진을 사용자가 직접 촬영한 고화질 사진으로 바꾸고 03 단자 지도 좌표를 재보정하고 새 사진에서 확인된 DOWNLOAD(Mini-USB) 포트를 추가한 것은 `0.74.0`, HD-108U 전면·후면 사진을 제조사에서 입수한 고화질 사진으로 바꾸고 03 단자 지도와 06 EDID 설정 로터리 스위치 좌표를 재보정한 것은 `0.75.0`, HDS-42MU 전면·후면 사진을 고화질로 바꾸고 단자 지도·EDID 좌표를 재보정한 것은 `0.76.0`, HD-13U·SPX-M810 전면·후면 사진을 고해상도로 바꾸고 HD-13U 단자 지도·EDID 좌표와 SPX-M810 구성기 카드 슬롯 좌표를 재측정한 것은 `0.77.0`, 사용자가 제공한 HD-104U 고해상도 전면·후면 사진(긴 변 약 2000px)으로 기존 저해상도 이미지를 교체하고 단자 지도·EDID 로터리 스위치 좌표를 새 사진 기준으로 다시 측정한 것은 `0.78.0`, 제품 상세에 등록된 제조사 카탈로그·매뉴얼 PDF만 "제품 목록" 옆 버튼(새 탭 보기·내려받기)으로 보여 주는 구조를 추가한 것은 `0.79.0`, 매트릭스 카드 상세 정보 버튼과 XDM·SPX·VDM 카드 26종 사양을 등록한 것은 `0.80.0`, 로컬 작업 환경(`DEVICE_WORKFLOW.md`, `.gitattributes`, `.claude/settings.json`)과 `input_doc` 자료 자동 분류(`.claude/skills/input-doc`, `scripts/input_doc.py`)를 추가한 것은 `0.81.0`, 제조사 자료 입출력 단자 표에서 방향("입력"·"출력"·"입출력")·수량(숫자) 칸이 좁은 화면에서 줄바꿈되던 문제를 30개 제품 전수 조사로 찾아 고친 것은 `0.82.0`, 제목에 송신기·수신기가 들어간 제품 10종의 라벨을 색으로 구분한 것은 `0.83.0`, input_doc 첫 정리(매뉴얼 20권·사양서 1장)로 VDM HOS4-U 카드 사양을 등록하고 CIS4-U·COS4-U·QOS4S-U를 매뉴얼 KV07 값으로 보완하고 input_doc 반영 장부(`docs/evidence/input-doc-ledger.json`)와 파일별 반영 표시(`input_doc/STATUS.md`)를 추가하고 검증된 PR의 병합·배포를 Claude가 이어서 하도록 규칙을 바꾼 것은 `0.84.0`, 카탈로그·매뉴얼 충돌 정리(`docs/audit/CATALOG_MANUAL_CONFLICTS_2026-09-28.md`) 결정대로 VDM -U 카드에 매뉴얼 해상도 행·SOS4 오디오 포트를 더하고 QMS-88UX 멀티뷰에 8분할(16:9 비율)을 추가한 것은 `0.85.0`, 카탈로그·매뉴얼 충돌 항목을 사용자 결정("새로준 자료 기준으로")에 따라 매뉴얼 값으로 통일한 것(HD-104U 전원 1A, XDM 전송기 3840x2160, VDM 광 카드 10km·-U 카드 4096×2160·HOS4S-UW 1920×1080)은 `0.86.0`, RT컴 제공 고해상도 실물 사진으로 XDM-CTR100·XDM-FT101·XDM-FR101·XDM-CT103 제품 사진·목록 카드·구성기 04 전송기 썸네일을 교체하고 CTR100·FT101·CT103 단자 지도를 새 사진으로 다시 합성하고 XDM-FR101 수신기 뒷면 단자 지도를 추가한 것은 `0.87.0`, 사용자 결정("1번")으로 input_doc 매뉴얼 17개를 공개 폴더에 올려 16개 제품 상세에 매뉴얼 PDF 버튼을 켠 것은 `0.88.0`, 사용자 확인("ctr100과 pse는 단자는 동일해")에 따라 XDM-CTR100·XDM-CTR100 PSE 단자 지도를 같은 합성 사진(앞면 PSE 제품 안내서 사진 + 뒷면 RT컴 CTR100 사진)으로 바꾼 것은 `0.89.0`, QMS-88UX 06 화면 구성 모드의 DUAL 카드("듀얼 모드" 한 마디뿐)를 매뉴얼 KV.04 20~21쪽 근거로 출력 9·10번 멀티뷰 설정의 2분할(PBP)·PIP 레이아웃 3종으로 채운 것은 `0.90.0`, XDM-CTR100 PSE 정면 사진을 사용자가 재확인("1번 맞아"·"적용시켜줘")한 원본 PNG에서 정확한 픽셀 경계로 다시 잘라 646×396으로 다시 저장한 것은 `0.91.0`, SPX-TX/SPX-RX 단자 지도 사진의 검은 배경을 흰색으로 바꾸고(사용자 요청) 전송기 6개 제품 사양의 ft(피트) 표기를 일괄 삭제한 것은 `0.92.0`으로 기록했습니다. 다음 기능 묶음은 `0.93.0`을 목표로 하며, 실제 병합 전에는 검증된 canonical main commit을 확인합니다.
 - 모든 작업은 구현 문서, QA 문서 또는 감사 문서에 근거와 결과를 남깁니다.
 
 ## 로컬 작업과 input_doc

diff --git a/CHANGELOG.md b/CHANGELOG.md
@@ -4,6 +4,11 @@
 
 - **0.90.0 배포 기록**: `docs/qa/DEPLOYMENT_0.90_2026-09-28.md`(PR #85 → main 병합, 배포 run 64, 공개 파일 242/242 일치, 비공개 파일 6개 404)
 
+## 0.92.0
+
+- **SPX-TX/SPX-RX 사진 검은 배경 제거**(사용자 요청 "SPX사진 배경이 블랙이라서 이거 흰색이나 투명으로 가능해"): 검은 배경에 찍힌 SPX-TX·SPX-RX 단자 지도 사진(`spx-rx-tx-tx.webp`·`spx-rx-tx-rx.webp`) 배경을 테두리에 붙은 순수 검정 영역만 골라 흰색으로 바꿨습니다(연결 요소 분석, 제품 몸체의 어두운 색은 그대로 유지). SPX-M810 전면 판넬 사진(`spx-front.webp`)은 원래 여백이 거의 없어 눈에 보이는 변화가 없습니다.
+- **전송기 제품 사양의 ft(피트) 표기 일괄 삭제**(사용자 요청 "거리 ft표기는 모든 전송기 제품 사양에 있다면 일괄삭제"): CT101-U/CR101-U·CT104-U/CR104-U·FT101-U/FR101-U·FT103-U-H/FR103-U·SPX-TX/SPX-RX·SPX 6개 제품 데이터에서 "330ft"·"6,600ft"·"1,650ft"·"165ft"·"198ft" 같은 피트 표기를 지우고 미터·킬로미터 값만 남겼습니다.
+
 ## 0.91.0
 
 - **XDM-CTR100 PSE 정면 사진 재업로드**(사용자가 같은 사진 다시 확인 후 "적용시켜줘"): 사용자가 준 원본 PNG에서 정확한 픽셀 경계로 다시 잘라 `xdm-ctr100-pse-front.webp`를 646×396으로 다시 저장했습니다. 화면상 사진 내용은 이전과 같습니다(비교 결과 동일 사진).

diff --git a/README.md b/README.md
@@ -1,6 +1,6 @@
 # RTCOM Matrix Configurator
 
-**현재 버전: 0.91** · XDM·SPX·VDM 매트릭스의 프레임과 카드 슬롯을 구성하는 도구(Analog Way 구조 + LED 글래스 스킨 + 블랭크 커버, 04 전송기도 좌우 분할)와 알티컴 공개 제품정보(30종, 글래스 디자인·연결 다이어그램)를 제공합니다.
+**현재 버전: 0.92** · XDM·SPX·VDM 매트릭스의 프레임과 카드 슬롯을 구성하는 도구(Analog Way 구조 + LED 글래스 스킨 + 블랭크 커버, 04 전송기도 좌우 분할)와 알티컴 공개 제품정보(30종, 글래스 디자인·연결 다이어그램)를 제공합니다.
 
 프레임을 고르고 실제 슬롯 위치에 입력·출력 카드를 장착한 뒤, 전송기와 BOM을 검토하고 JSON·CSV·인쇄 보고서로 내보냅니다. 0.19부터 알티컴 브로셔 수준 제품정보의 원본은 이 저장소(`data/products/`)이며, 머리글의 "알티컴 제품정보" 탭에서 봅니다. 비공개 AV Portal은 이 공개 데이터를 읽기만 합니다([인계 문서](docs/handoff/AV_PORTAL_RTCOM_PRODUCT_DATA.md)). 실제 슬롯·설치 허용표와 전원·케이블 조건은 확정 전이며, 모든 내보내기는 `UNVERIFIED_DRAFT`로 표시합니다.
 
